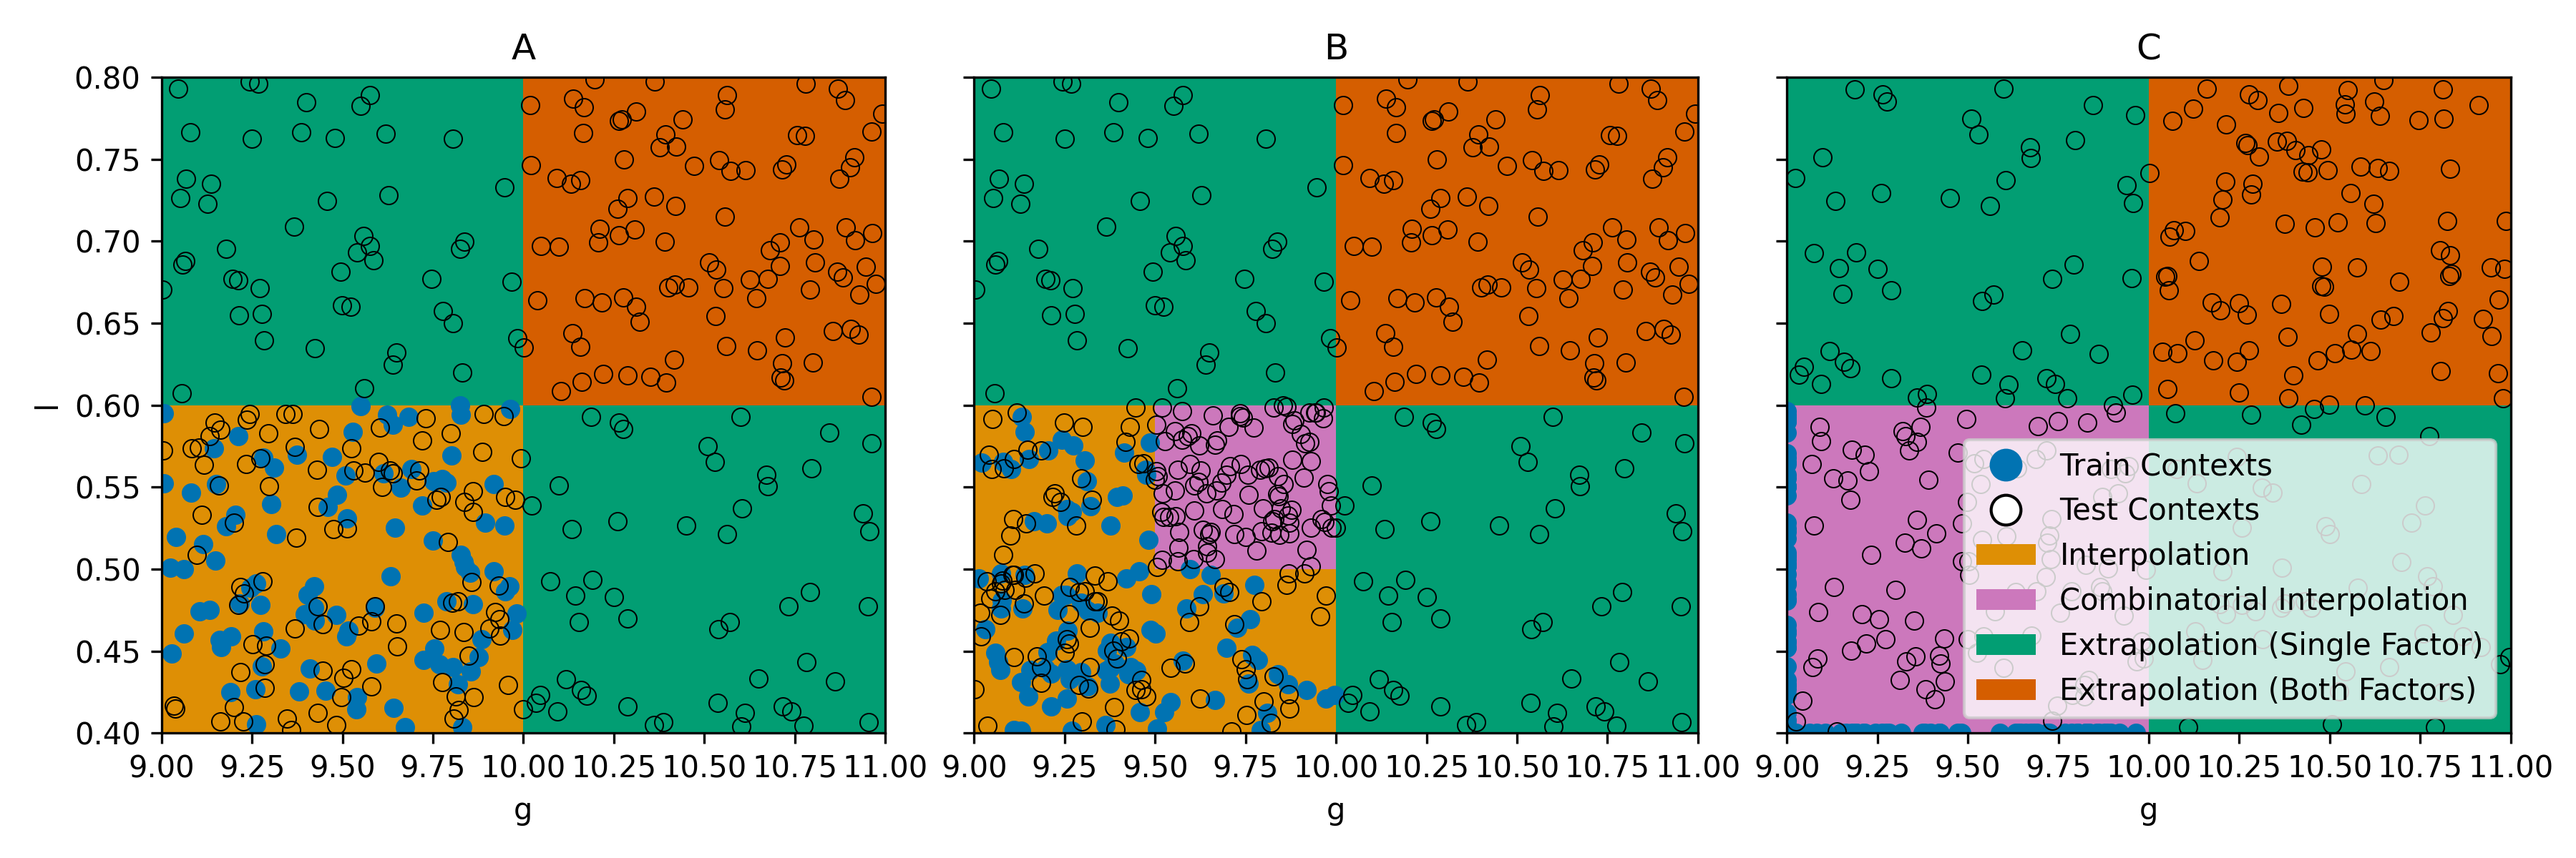
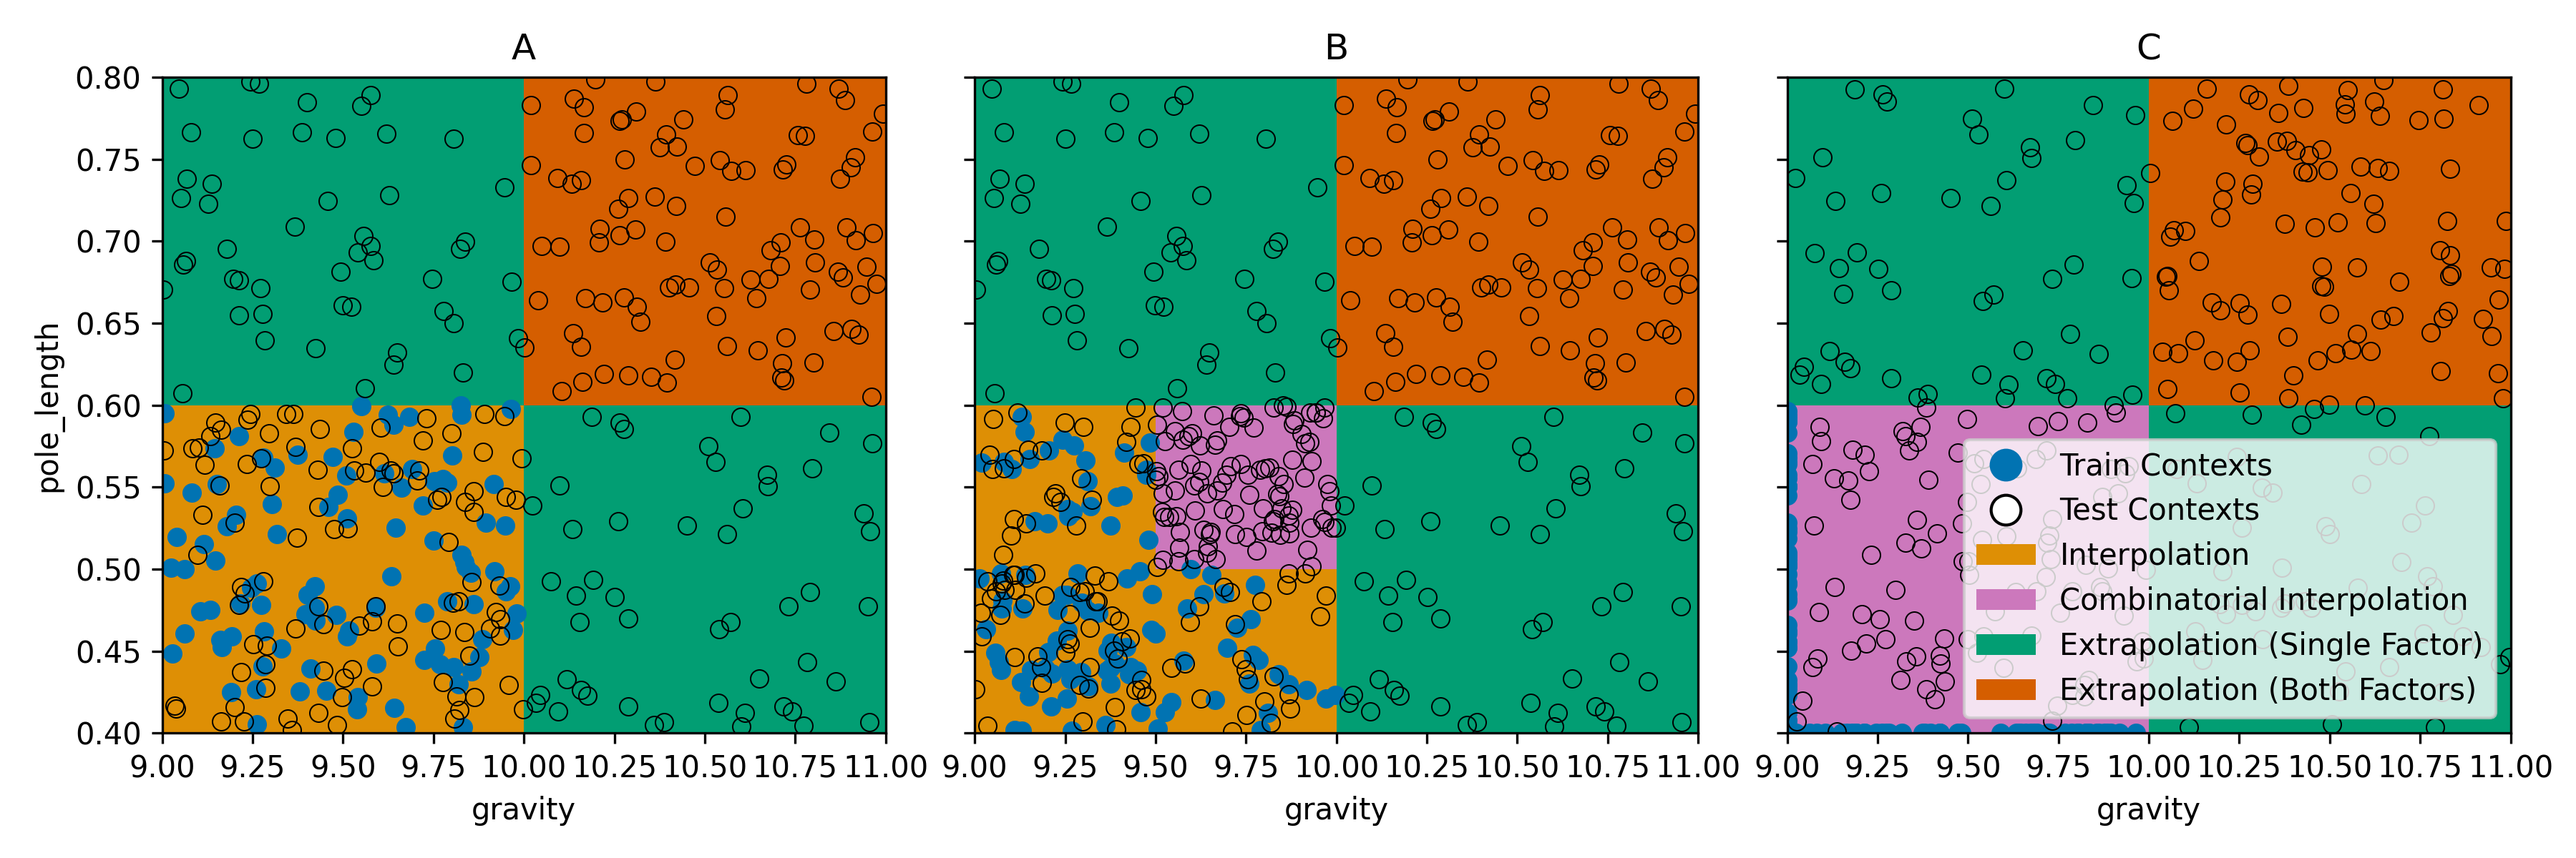
figure update

diff --git a/src/experiments/evaluation_protocol/plot_traintest_distributions.py b/src/experiments/evaluation_protocol/plot_traintest_distributions.py
@@ -151,8 +151,8 @@ def plot_evaluation_protocol(context_features, seed, n_contexts):
 
 
 if __name__ == '__main__':
-    cf0 = ContextFeature("g",  9., 9.5, 10., 11.)
-    cf1 = ContextFeature("l", 0.4, 0.5, 0.6, 0.8)
+    cf0 = ContextFeature("gravity",  9., 9.5, 10., 11.)
+    cf1 = ContextFeature("pole_length", 0.4, 0.5, 0.6, 0.8)
     seed = 1
     n_contexts = 100
     context_features = [cf0, cf1]
